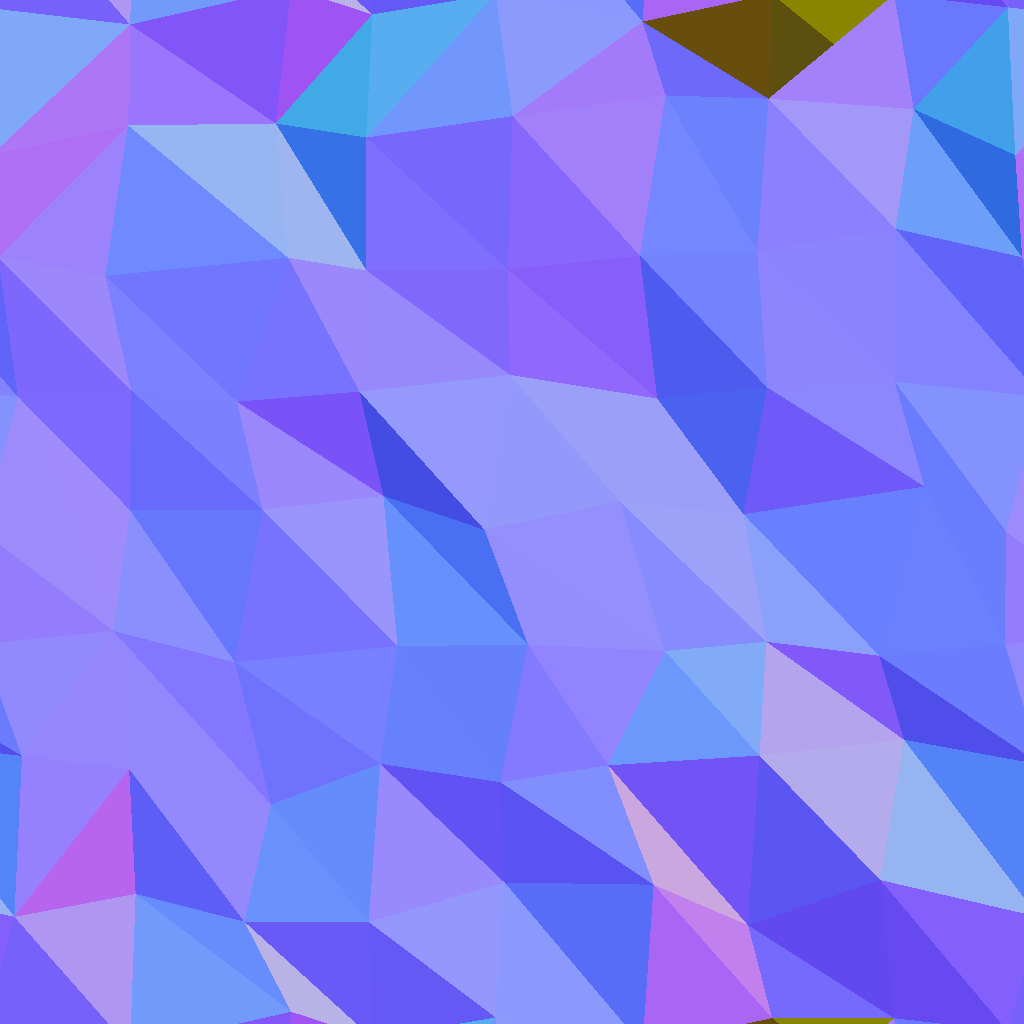
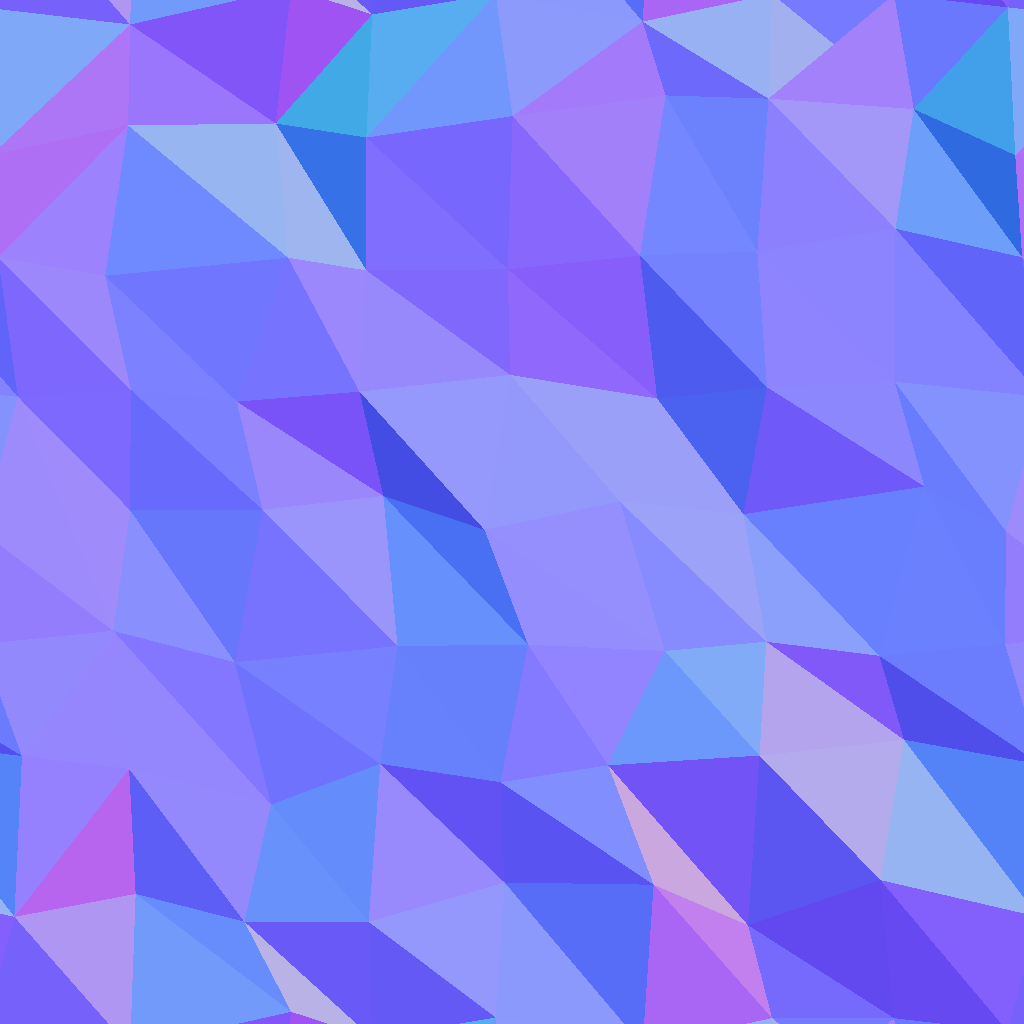
Added cave room node structure with basic connecting tunnels

Changed region(s): [[0.625, 0.0, 0.875, 0.0938], [0.75, 0.9688, 0.875, 1.0]]

diff --git a/Assets/Scripts/Terrain/MarchingCubes.cs b/Assets/Scripts/Terrain/MarchingCubes.cs
@@ -194,9 +194,16 @@ public class MarchingCubes : MonoBehaviour
 
 
 			UpdateChunks();
-        }
+		}
+		if (Mathf.Abs(playerChunkPos.y - playerChunkPosition.y) > 1.25f)
+		{
+			playerChunkPos = new Vector3Int(playerChunkPos.x, ((int)(player.position.y + chunkSize / 2) / chunkSize), playerChunkPos.z);
+
+
+			UpdateChunks();
+		}
 		if (Mathf.Abs(playerChunkPos.z - playerChunkPosition.z) > 1.25f)
-        {
+		{
 			playerChunkPos = new Vector3Int(playerChunkPos.x, playerChunkPos.y, ((int)(player.position.z + chunkSize / 2) / chunkSize));
 
 
@@ -205,16 +212,16 @@ public class MarchingCubes : MonoBehaviour
 
 
 		//foreach ( Chunk chunk in chunks.Values)
-        //{
+		//{
 		//	if ((Vector3.ProjectOnPlane(chunk.coord - playerChunkPos, Vector3.up)).magnitude < chunkRenderDist * 0.5f)
-        //    {
+		//    {
 		//		chunk.meshCollider.enabled = true;
-        //    }
-        //    else
-        //    {
+		//    }
+		//    else
+		//    {
 		//		chunk.meshCollider.enabled = false;
 		//	}
-        //}
+		//}
 	}
 
 	int IndexFromCoord(int x, int y, int z)
@@ -388,7 +395,7 @@ public class MarchingCubes : MonoBehaviour
 		
 		foreach (Vector3Int coord in chunks.Keys)
 		{
-			if (Vector3.ProjectOnPlane(coord - playerChunkPos, Vector3.up).magnitude > chunkRenderDist)
+			if ((coord - playerChunkPos).magnitude > chunkRenderDist)
 			{
 				chunkCoordsToRemove.Add(coord);
 			}
@@ -441,7 +448,7 @@ public class MarchingCubes : MonoBehaviour
 				if (borderChunk.shouldGenerateToSides[i] && borderChunk.shouldGenerateToSides[i + 6] &&
 				!chunks.ContainsKey(bNewCoords[i]))
 				{
-					if (Vector3.ProjectOnPlane(bNewCoords[i] - tempPlayerChunkPos, Vector3.up).magnitude < chunkRenderDist)
+					if ((bNewCoords[i] - tempPlayerChunkPos).magnitude < chunkRenderDist)
 					{
 						Chunk newChunk = CreateChunk(bNewCoords[i]);
 						chunkQueue.Enqueue(newChunk);
@@ -503,7 +510,7 @@ public class MarchingCubes : MonoBehaviour
 					if (shouldGenerateToSides[i] && shouldGenerateToSides[i + 6] &&
 					!chunks.ContainsKey(newCoords[i]))
 					{
-						if (Vector3.ProjectOnPlane((newCoords[i] - tempPlayerChunkPos), Vector3.up).magnitude < chunkRenderDist)
+						if ((newCoords[i] - tempPlayerChunkPos).magnitude < chunkRenderDist)
 						{
 							Chunk newChunk = CreateChunk(newCoords[i]);
 							chunkQueue.Enqueue(newChunk);

diff --git a/Assets/Scripts/Terrain/Chunk.cs b/Assets/Scripts/Terrain/Chunk.cs
@@ -76,6 +76,11 @@ public class Chunk : MonoBehaviour
 			triangles[i] = i;
 			float oreType = 0f;
 
+			if (vertexData[i].terrainType < 0f)
+			{
+				Debug.Log("aha");
+			}
+
 			if (vertexData[i].terrainType > 1.0f && vertexData[i].terrainType <= 2.0f)
 			{
 
@@ -94,6 +99,8 @@ public class Chunk : MonoBehaviour
             {
 				vertTerrainTypes[i] = vertexData[i].terrainType;
 			}
+
+			
 
 
 			uvs[i] = new Vector2(oreType, vertTerrainTypes[i]);
